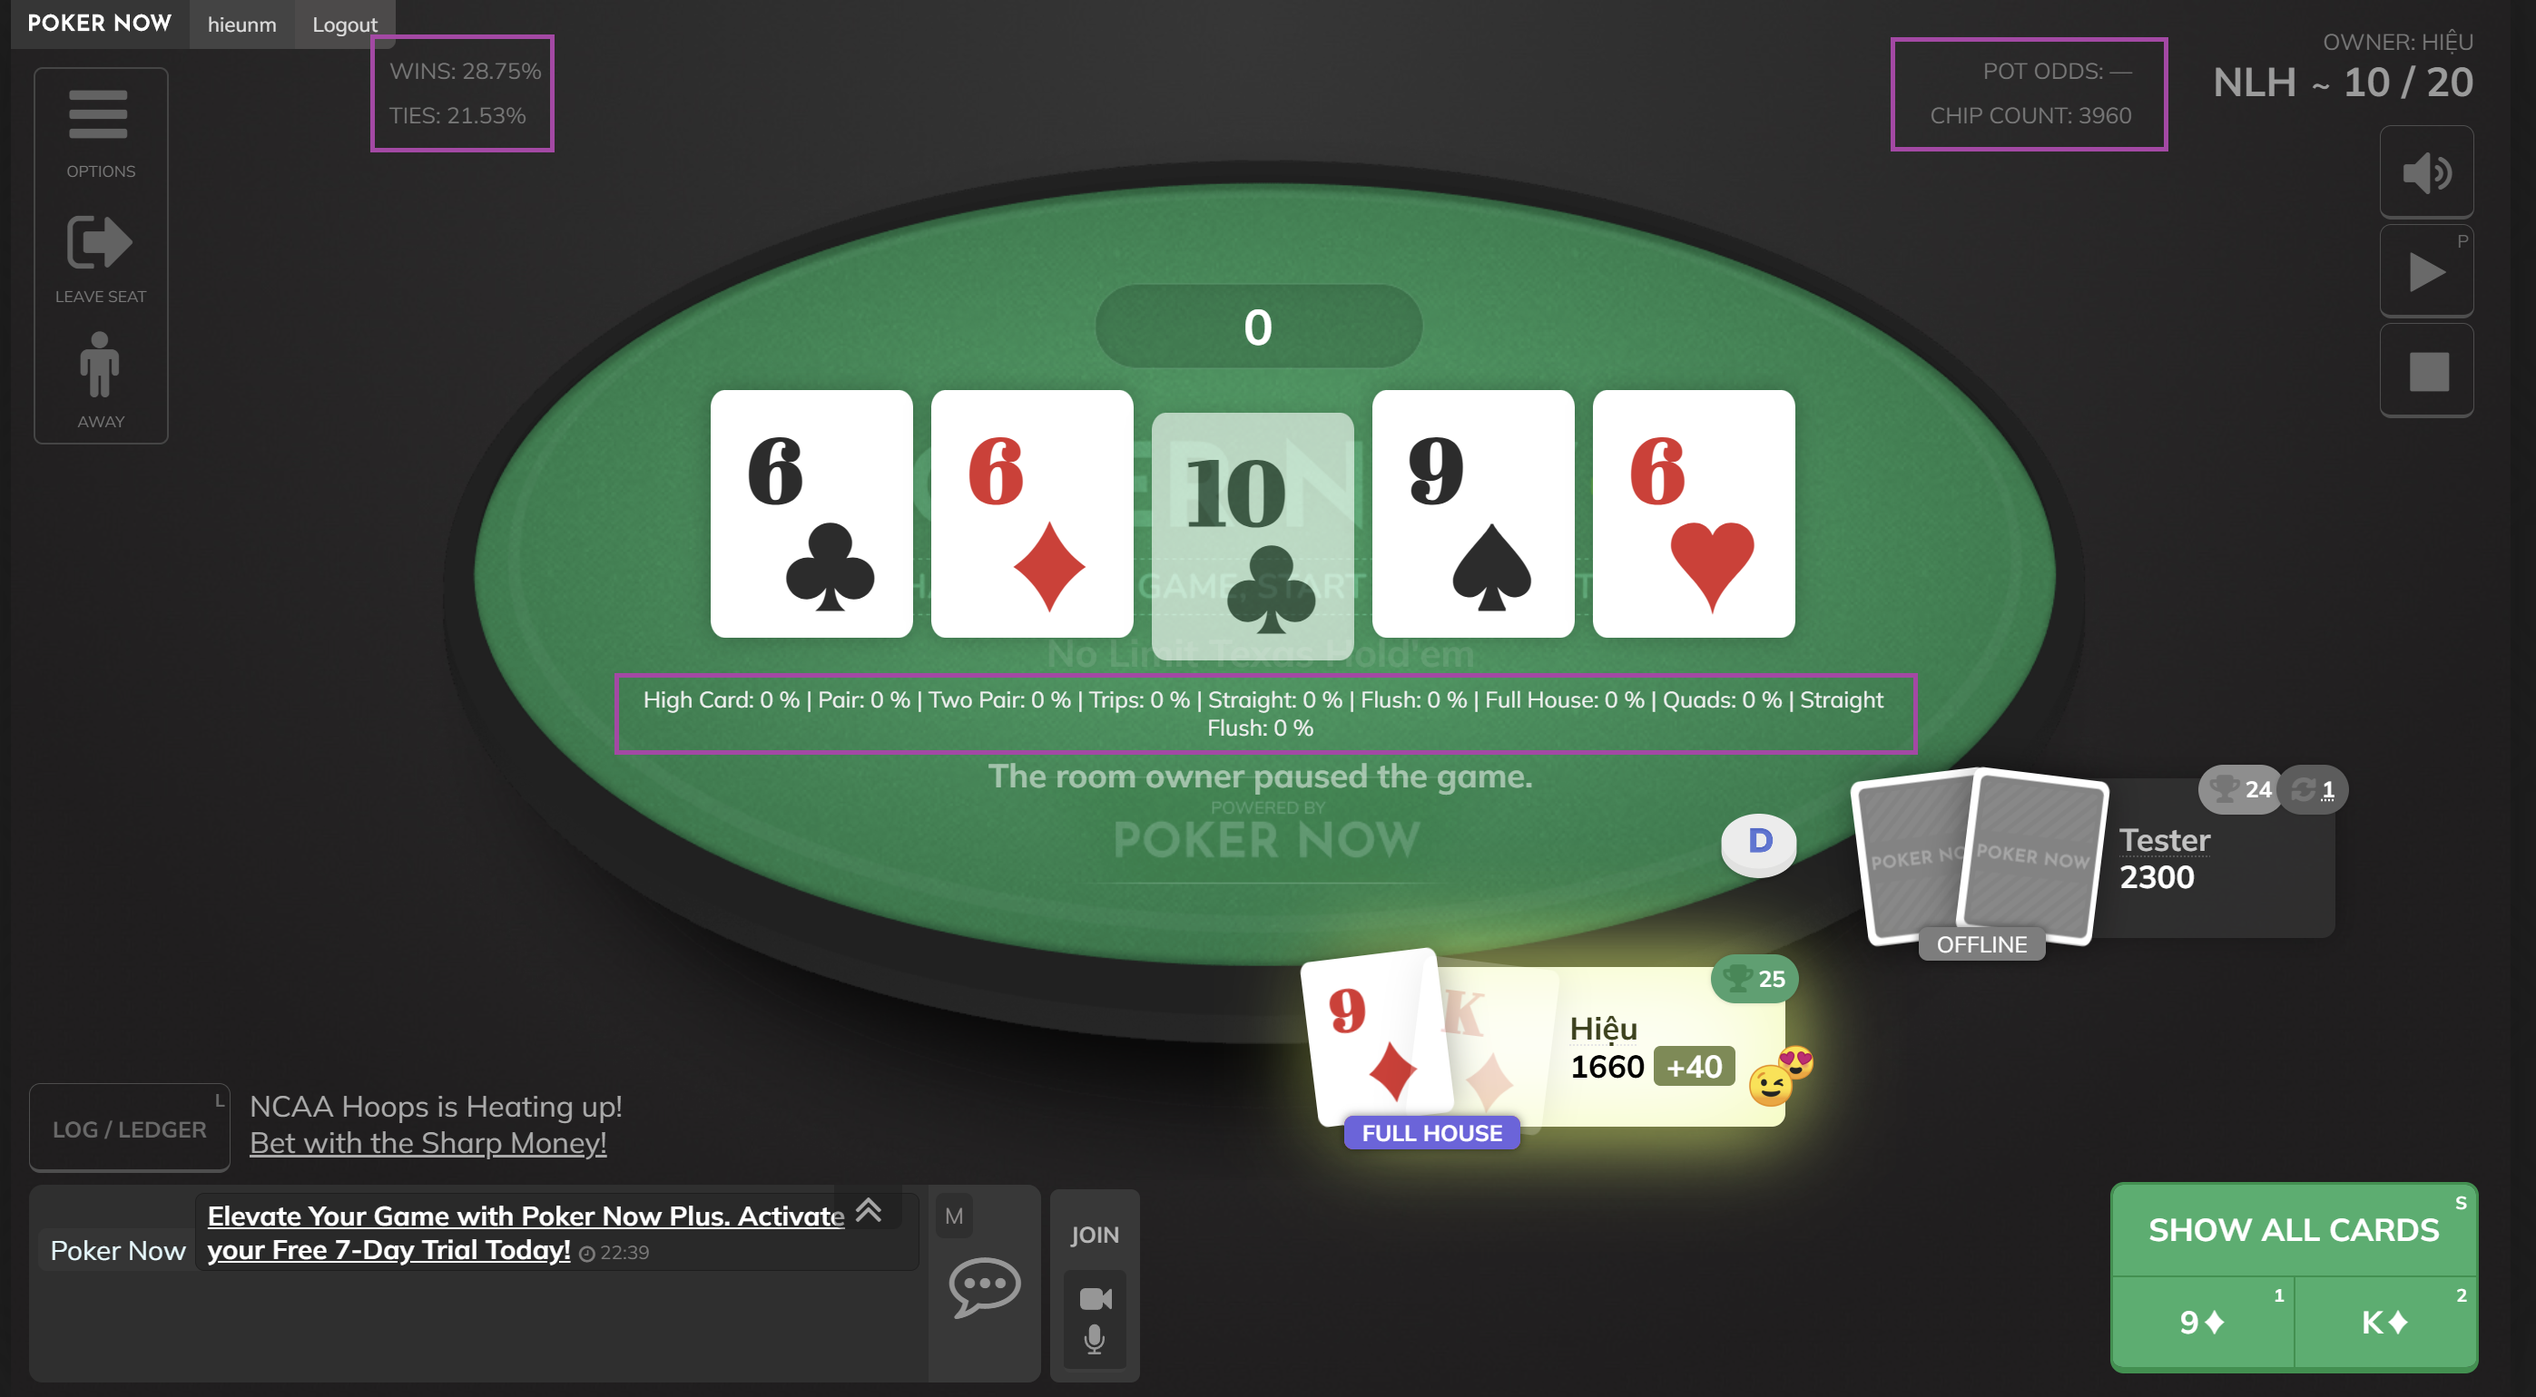
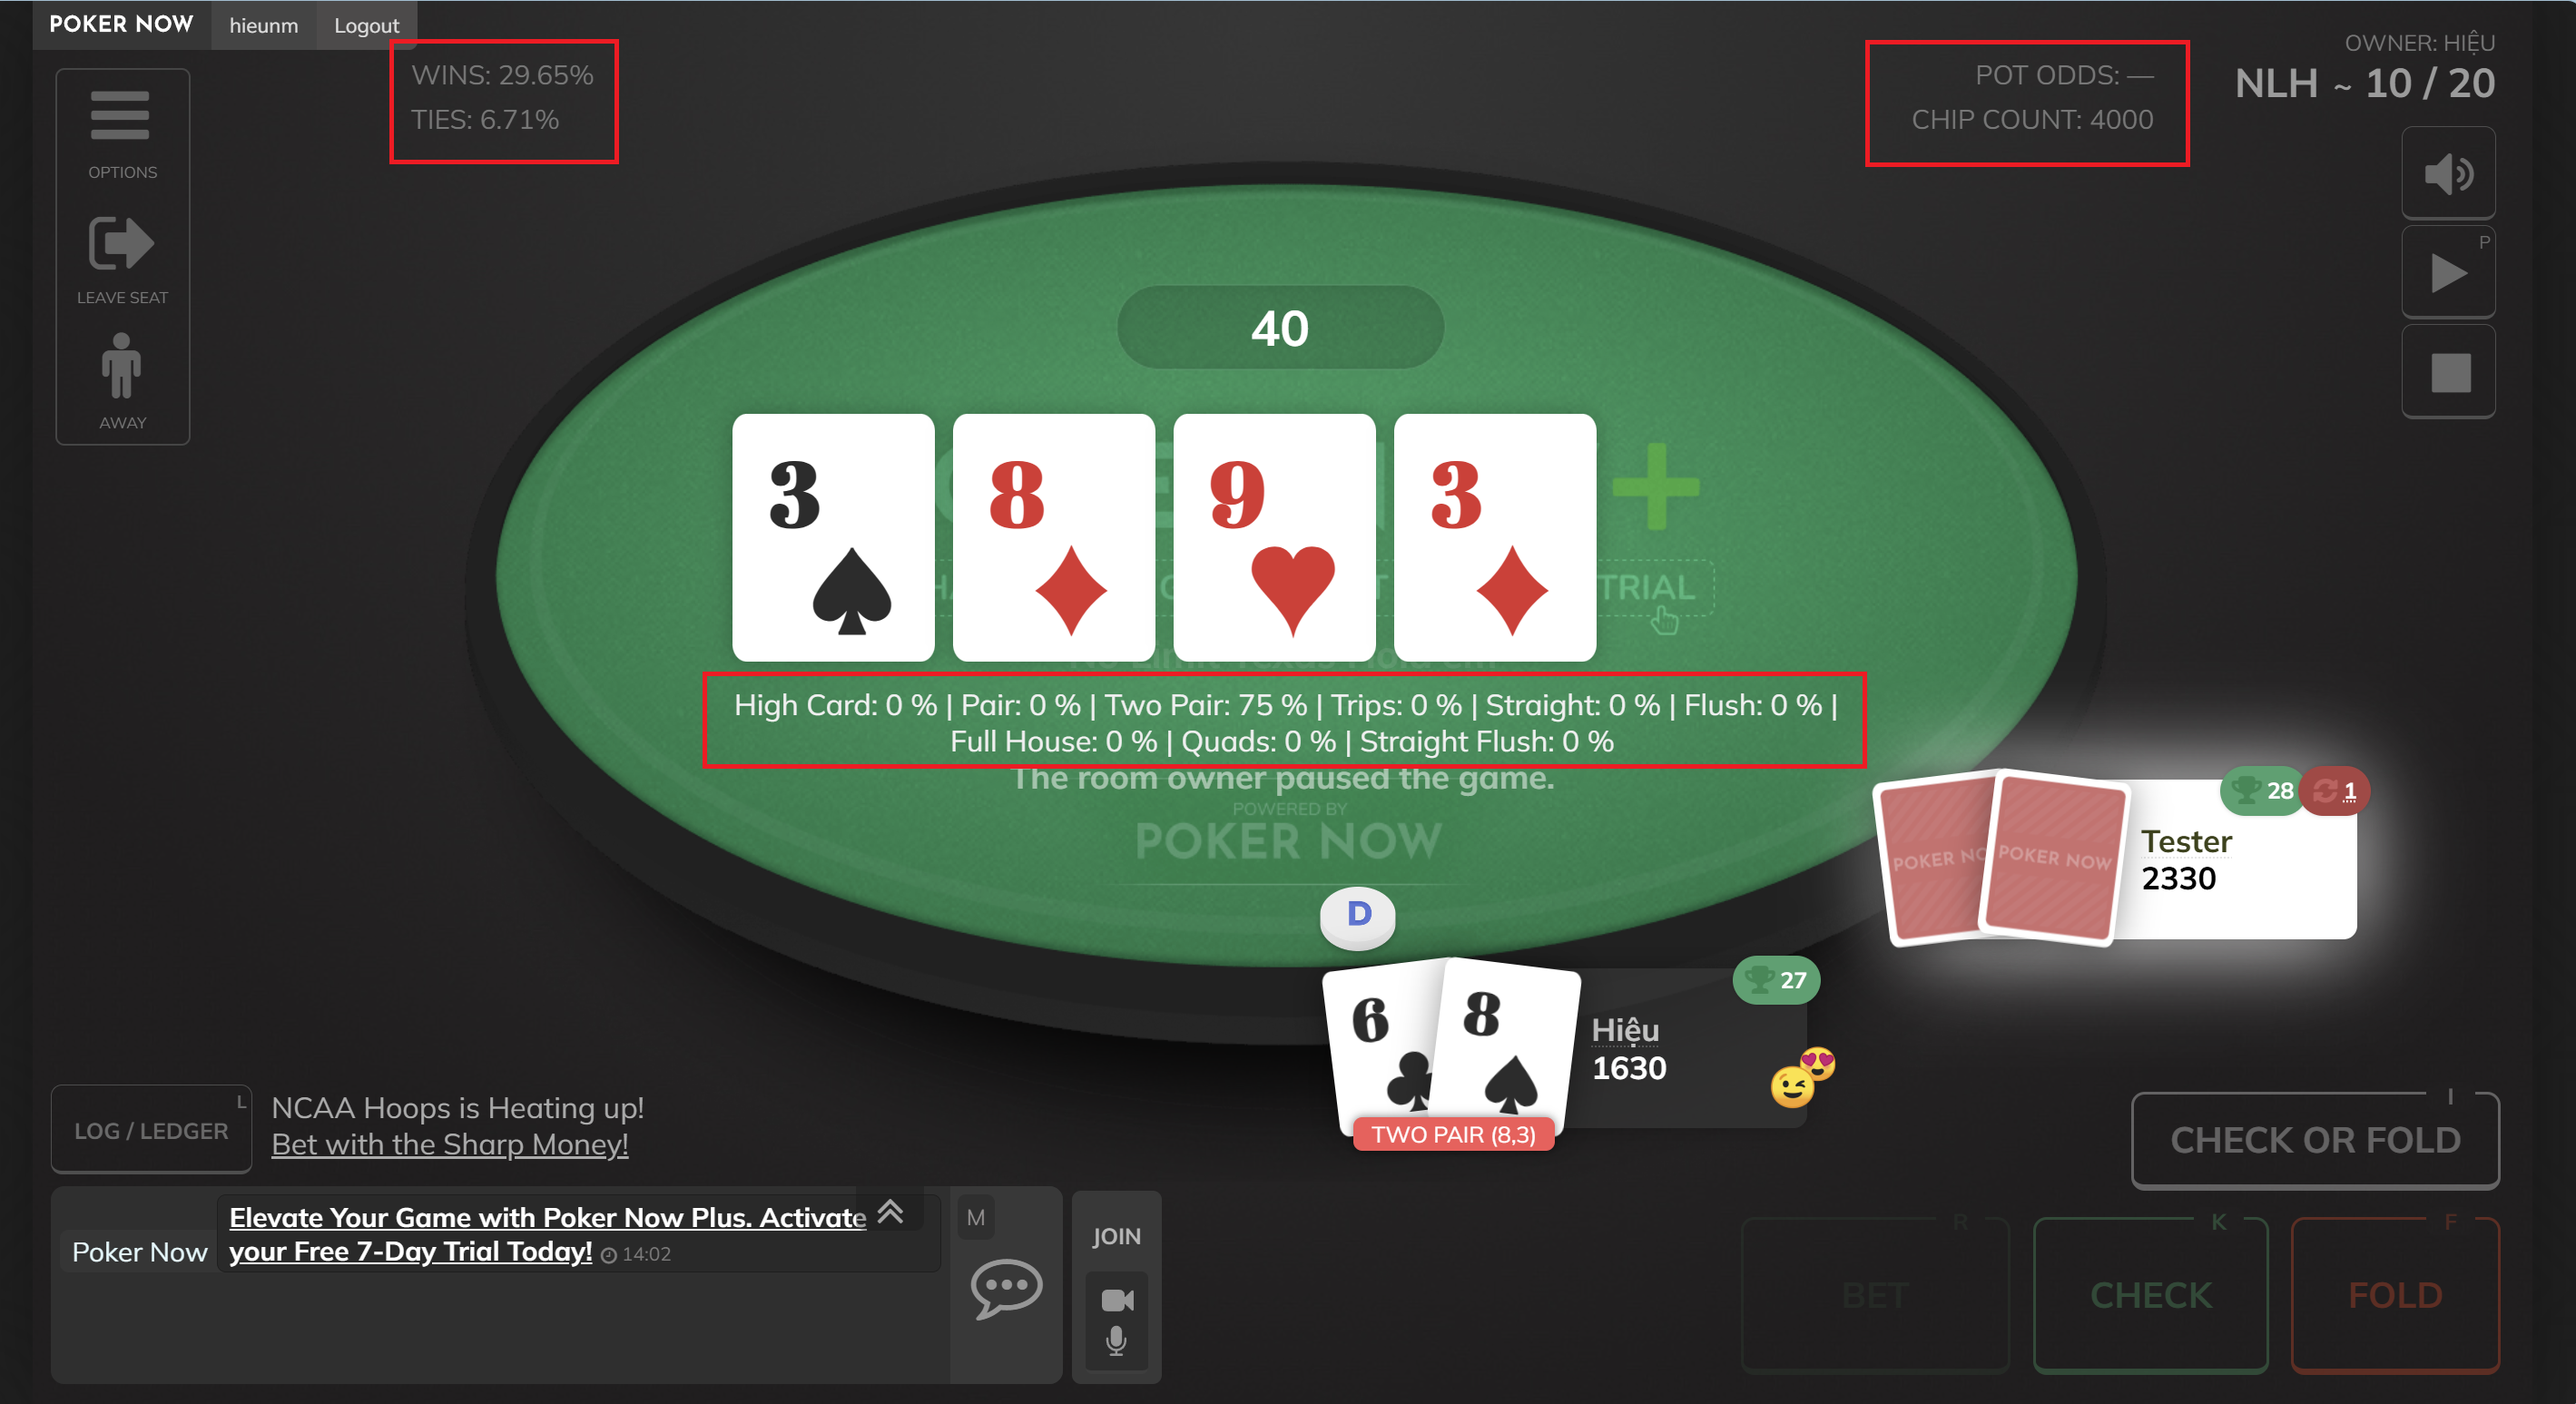
Update doc and size of text.

diff --git a/src/inject/inject.css b/src/inject/inject.css
@@ -4,7 +4,7 @@
   top: 1.25rem;
   color: #777;
   text-transform: uppercase;
-  font-size: .5rem;
+  font-size: .6rem;
 }
 
 .chip-count-container {
@@ -13,7 +13,7 @@
   top: 2.25rem;
   color: #777;
   text-transform: uppercase;
-  font-size: .5rem;
+  font-size: .6rem;
 }
 
 .win-container {
@@ -22,7 +22,7 @@
   top: 1.25rem;
   color: #777;
   text-transform: uppercase;
-  font-size: .5rem;
+  font-size: .6rem;
 }
 
 .tie-container {
@@ -31,7 +31,7 @@
   top: 2.25rem;
   color: #777;
   text-transform: uppercase;
-  font-size: .5rem;
+  font-size: .6rem;
 }
 
 .hands-container {
@@ -40,6 +40,6 @@
   transform: translateX(-50%);
   top: 15.25rem;
   color: #f0f0f0;
-  font-size: .5rem;
+  font-size: .65rem;
   text-align: center;
 }

diff --git a/src/inject/inject.js b/src/inject/inject.js
@@ -166,7 +166,7 @@ var updateWinPercent = function () {
         " | Trips: " + hands.trips + " %" +
         " | Straight: " + hands.straight + " %" +
         " | Flush: " + hands.flush + " %" +
-        " | Full House: " + hands.FH + " %" +
+        " <br> Full House: " + hands.FH + " %" +
         " | Quads: " + hands.quads + " %" +
         " | Straight Flush: " + hands.straightflush + " %"
     )

diff --git a/README.md b/README.md
@@ -18,9 +18,7 @@ This gives you a clearer picture of your hand’s strength.
 
 ## How does it work?
 
-Once you've installed the Chrome extension, you'll see a small "Pot odds" box appear at all times. 
-The odds are expressed as a fraction of `1.0`.
-Additionally, a win/tie/loss percentage will display in the center of the table, based on your current cards.
-For a visual example, check out this screenshot.
+Once you've installed the Chrome extension, you'll see a small "Pot odds" box appear at top right side of the screen.
+A win/tie percentage will be on the top left and rate of possible Poker hit will display in the center of the table, based on your current cards.
 ![Screenshot](https://github.com/hieunm3538/pokernow-monte-carlo-extension/blob/main/docs/img.png)
 This extension simplifies poker decisions with real-time data, making it easier to play smarter!
